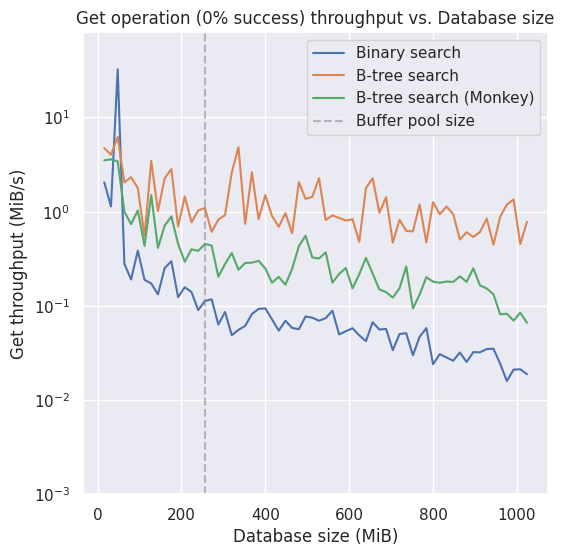
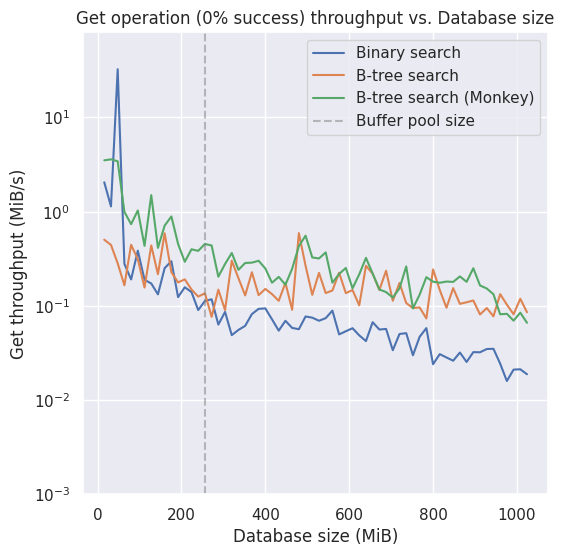
Update experiment results

diff --git a/README.md b/README.md
@@ -297,7 +297,7 @@ All the experiments insert unique uniformly random keys and values, and queries 
 
 ![](img/put_rolling_avg_throughput.png)
 
-![](img/get_rolling_avg_throughput.png)
+![](img/get_throughput.png)
 
 In this experiment, we compare the put and get operations throughput as we vary the size ratio of the LSM tree. The data we get from the put operation throughput is really chaotic because compactions happen in some samples but not in others. To make the data easier to interpret and contrast, we calculated a running average of 5 samples, and this is what is displayed on the graph. The data from the get operations was left as is.
 
@@ -313,9 +313,9 @@ As we increase the size ratio of the LSM tree, we expect the put throughput to i
 
 In this experiment, we compare the throughput of the get operation when using binary search vs. B-tree search when doing a point query to an SST. We also compare how enabling Monkey affects the get throughput. This is the only experiment where we disable Monkey on the database. We also test the performance of get operations where 0% are to keys that exist in the database, or 50% are to keys that exist, or 100% are to keys that exist. 
 
-At 0% success for get operations, using Monkey is noticeably faster since this test relies more on avoiding I/O from false positive filter queries. Binary search is last, but the difference isn't as big as in the other graphs. This is because there are fewer point queries to the SSTs, as it can skip them using the filters, so the binary search doesn't slow it down as much.
+At 0% success for get operations, using Monkey is slightly faster since this test relies more on avoiding I/O from false positive filter queries. Binary search is last, but the difference isn't as big as in the other graphs. This is because there are fewer point queries to the SSTs, as it can skip them using the filters, so the binary search doesn't slow it down as much.
 
-At 50% and 100% success for get operations, binary search is a lot slower than B-tree search. And everything is slower than at 0% success. In here, most get operations will result in I/O, so the binary search algorithm is a lot slower. As we can see from the spiky structure of the graphs, the throughput on gets is affected by how many and how big the SSTs are, but overall remains approximately constant as the database size grows.
+At 50% and 100% success for get operations, binary search is a lot slower than B-tree search. And everything is slower than at 0% success. In here, most get operations will result in I/O, so the binary search algorithm is a lot slower. As we can see from the spiky structure of the graphs, the throughput on gets is affected by how many and how big the SSTs are, but overall remains approximately constant as the database size grows. We didn't find much difference in performance whether we use Monkey or not. We expect that if the database size were to grow much more, then we would start seeing the positive effects more clearly.
 
 ### Concurrency
 
